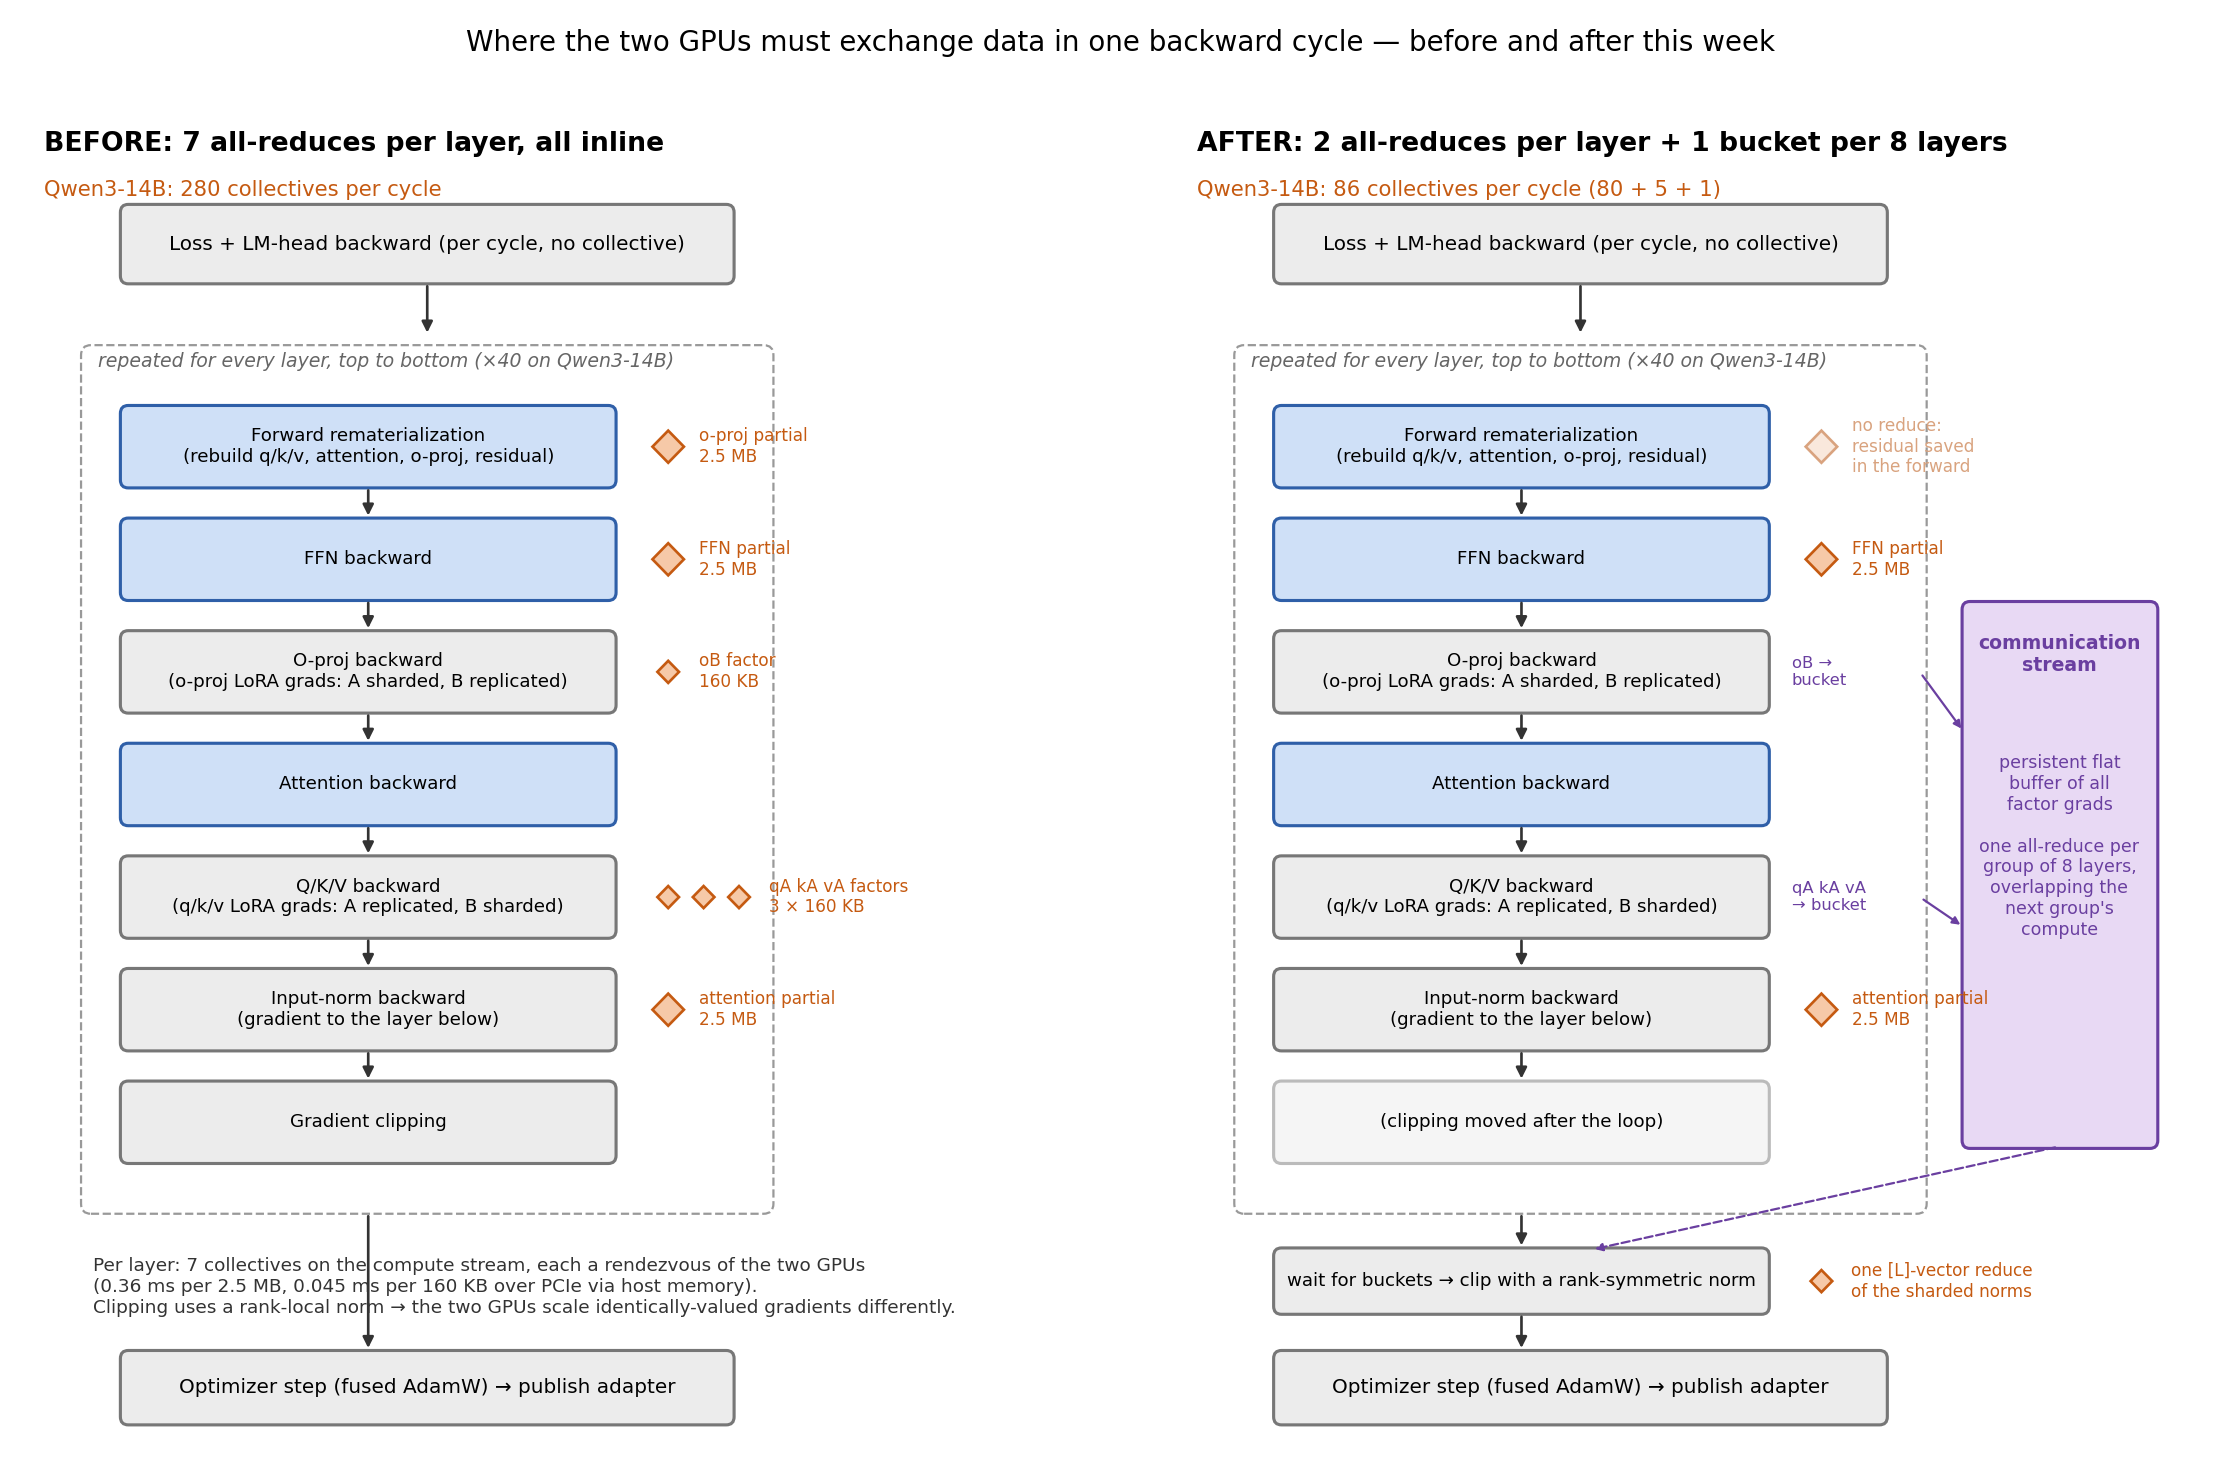
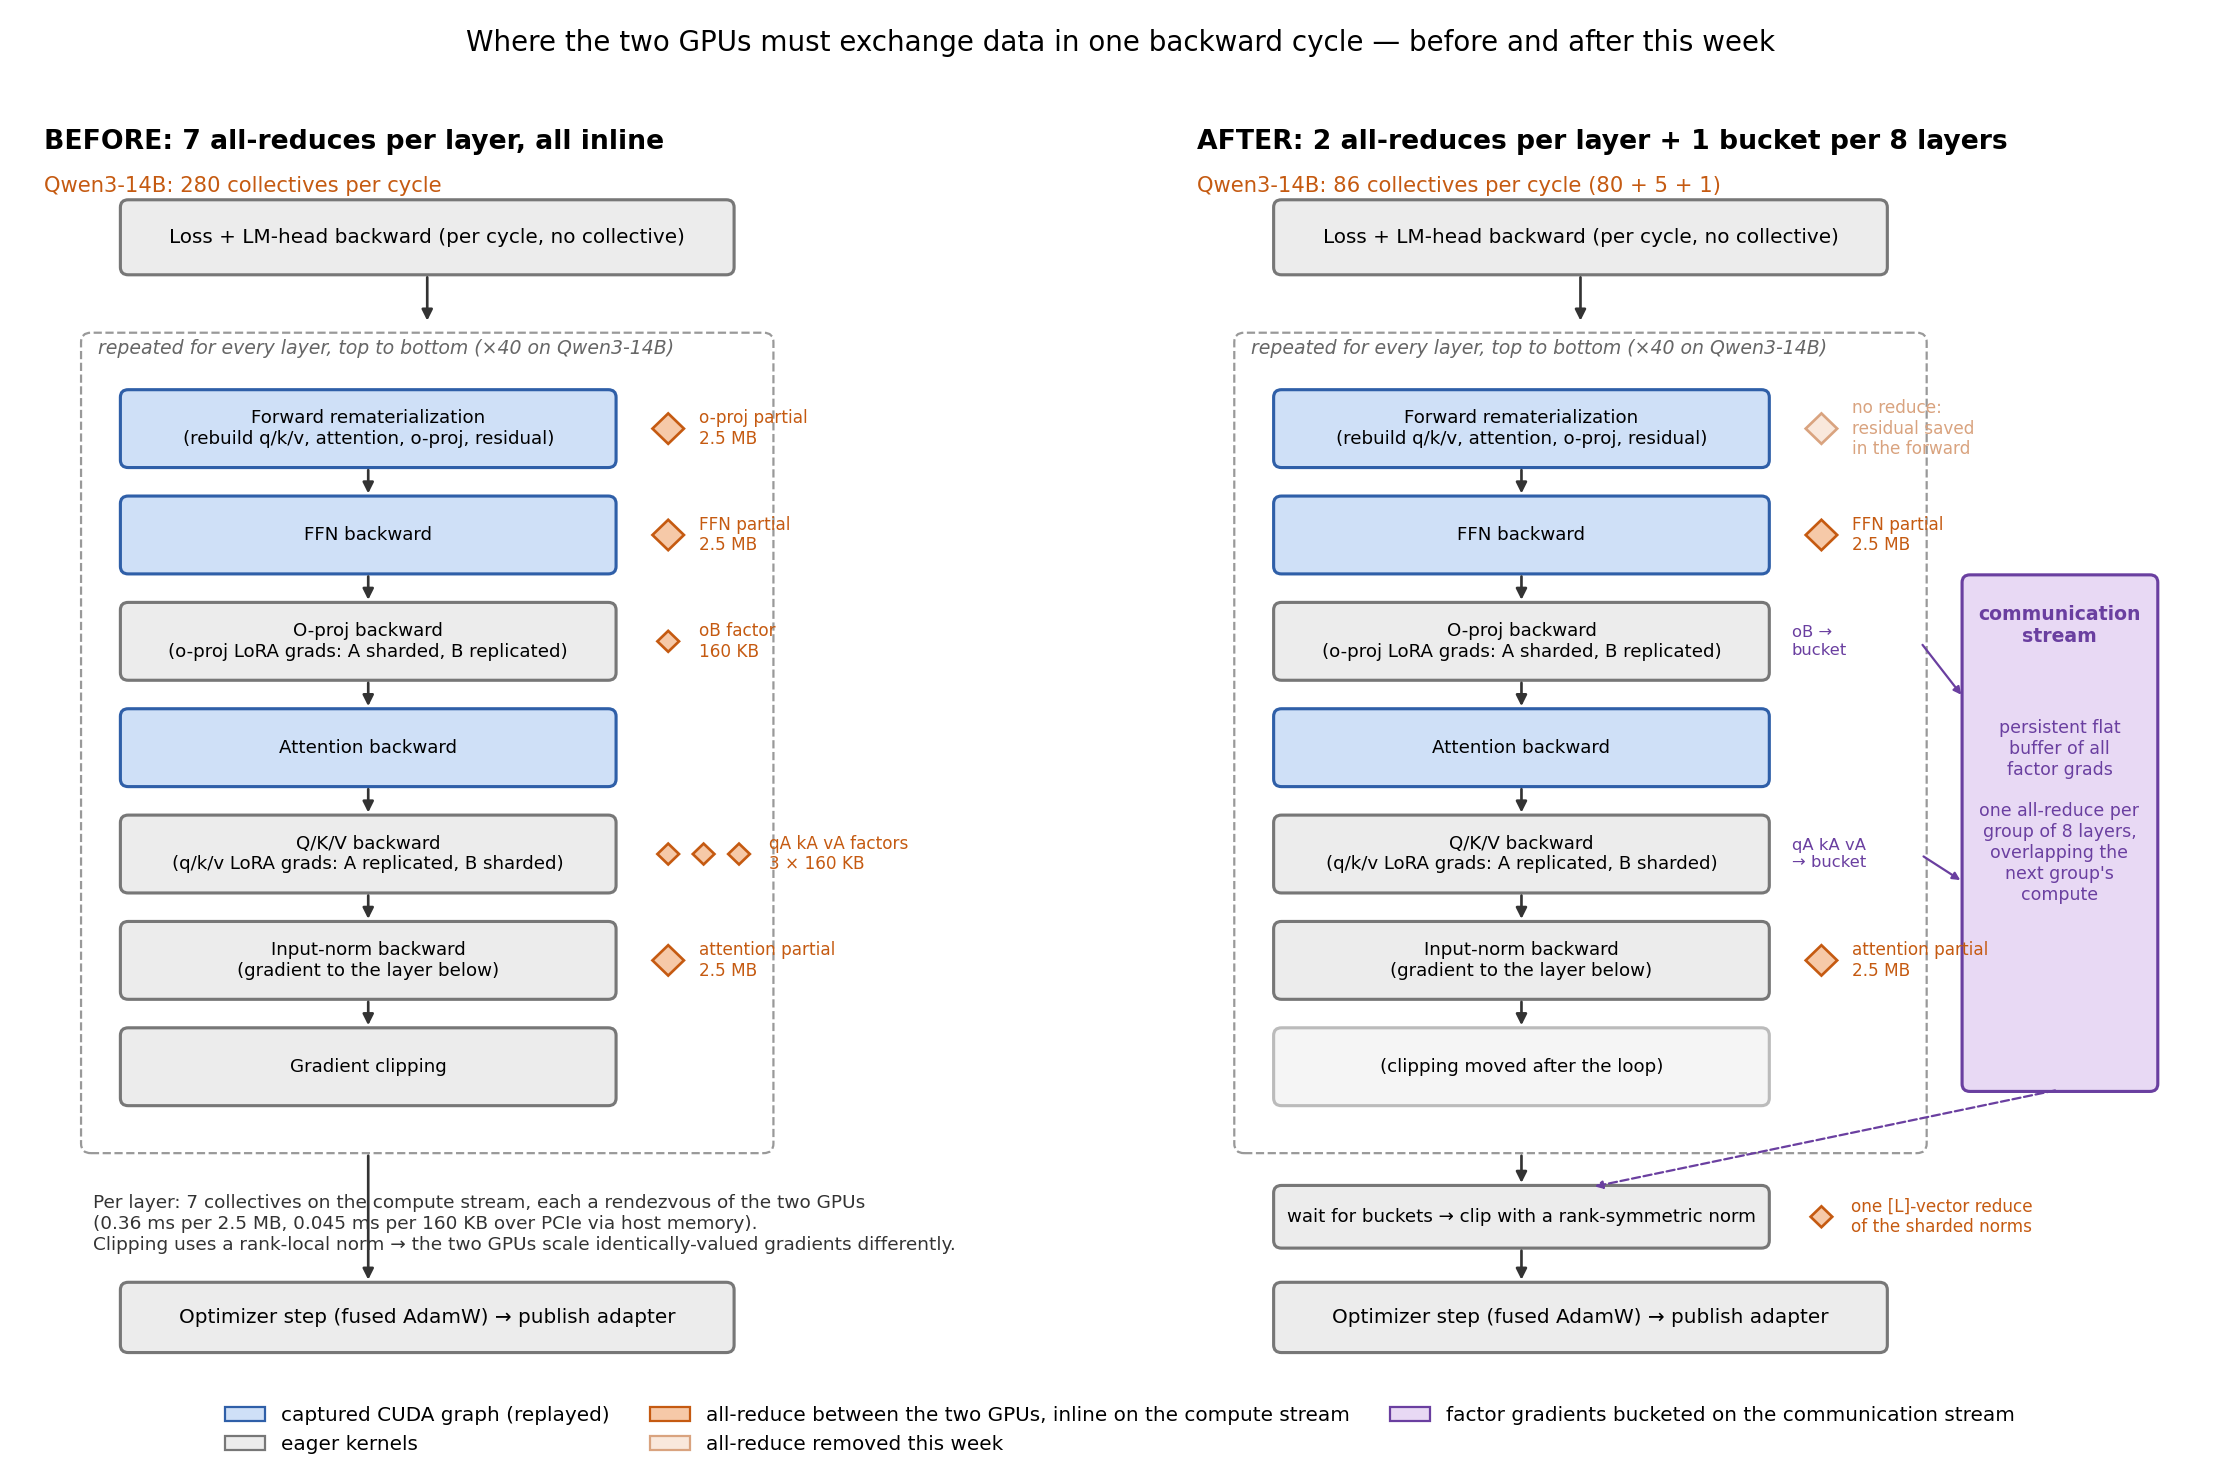
docs: weekly report — sections 2/3 merged (2.1 recompute+head, 2.2 transfer) on figure 2 with a colour legend; figure 3 removed; figure 4 beside its paragraph

diff --git a/weekly_report_sept_1.md b/weekly_report_sept_1.md
@@ -45,12 +45,15 @@ GPUs, including the fallback path when a batch overflows the padded attention bu
 4020 checks) and a trainer-level test that runs the real training loop for several steps
 and compares losses and adapter weights across graph, eager, and single-GPU (220 checks).
 
-## 2. What the backward actually costs, and what we removed
+## 2. Where the backward's time goes, and what we removed
+
+### 2.1 Recompute, activation saving, and the LM head
 
 **The pipeline and where the GPUs must talk.** Each backward cycle walks the layers from
 the top down. Under tensor parallelism every layer needs a few all-reduces because each
 GPU holds only half of the attention heads and half of the feed-forward block. The two
-diagrams below show the same cycle before and after this week's changes.
+diagrams below show the same cycle before and after this week's changes; the right-hand
+diagram is also the reference for the transfer changes in 2.2.
 
 ![Where the two GPUs exchange data in one backward cycle, before and after](figures/weekly_sept_1/fig2_allreduce_pipeline.png)
 
@@ -105,19 +108,19 @@ Qwen3-14B-shaped model, two GPUs, no inference running, graphs and all saves on:
 
 Over the week the uncontended Qwen3-14B cycle went from ~194 ms (eager, no saves) to
 ~121 ms: roughly 5 ms from graphs, 15 ms from the activation saves, 42 ms from the head,
-and a few ms from the transfer changes in the next section.
+and a few ms from the transfer changes in 2.2.
 
-## 3. GPU-to-GPU transfer: bucketing and a communication stream
+### 2.2 GPU-to-GPU transfer: bucketing and a communication stream
 
-**Before.** All 240 reductions per cycle were issued inline, on the same CUDA stream as
-the compute, at the point where each gradient was produced. 160 of them were the
-replicated LoRA-factor gradients, which nobody reads until the optimizer step at the end
-of the cycle. Each reduce is a rendezvous between the two GPUs, and the backward process
-was also started with the CUDA setting that pins every stream onto a single hardware queue
-(inherited from the original DeltaServe), so no overlap between communication and compute
-was possible even in principle.
-
-![Compute stream vs communication stream, before and after bucketing](figures/weekly_sept_1/fig3_bucketing_streams.png)
+**Before** (left-hand side of the diagram above). All 240 reductions per cycle were
+issued inline, on the same CUDA stream as the compute, at the point in the layer where
+each gradient was produced: the two residual-stream partials that the next operation needs
+immediately, and the four replicated LoRA-factor gradients that nobody reads until the
+optimizer step at the end of the cycle. Each reduce is a rendezvous between the two GPUs,
+so the compute stream stalled 7 times per layer, and the backward process was started
+with the CUDA setting that pins every stream onto a single hardware queue (inherited from
+the original DeltaServe), so no overlap between communication and compute was possible
+even in principle.
 
 There was also a correctness problem hiding in the same place: gradient clipping ran
 per layer on each GPU over the tensors that GPU held, replicated factors in full but only
@@ -125,12 +128,13 @@ its own half of the sharded ones. The two GPUs derived slightly different clip s
 applied them to gradients that are supposed to be identical, so their replicated adapter
 weights drifted apart whenever a layer's gradient norm exceeded the clip threshold.
 
-**After.** The factor gradients are copied into one persistent flat buffer as they are
-produced and reduced once per group of eight layers on a dedicated communication stream,
-overlapping the next group's compute; 240 collectives become 86 (80 residual reduces, 5
-buckets, 1 for clipping). Clipping runs after the bucketed reduce with a norm that sums
-the sharded halves across GPUs in one tiny collective, so both GPUs scale identically. The
-single-queue setting is gone.
+**After** (right-hand side). The two residual-stream reduces stay where they are, since
+the next operation depends on them. The four factor gradients are instead copied into one
+persistent flat buffer as they are produced and reduced once per group of eight layers on
+a dedicated communication stream, overlapping the next group's compute; 240 collectives
+become 86 (80 residual reduces, 5 buckets, 1 for clipping). Clipping moves after the
+bucketed reduce and uses a norm that sums the sharded halves across GPUs in one tiny
+collective, so both GPUs scale identically. The single-queue setting is gone.
 
 **Ordering correctness** lives in one helper: every submit waits for the producing
 compute, every consumer waits for the completion event, only persistent buffers are
@@ -142,7 +146,7 @@ single-GPU run. The measured time saving is small, about 2 ms per cycle, because
 residual reduces stay on the critical path; that is the floor for tensor parallelism on
 this hardware. The real gain is the correctness fix.
 
-## 4. Inference pre-empting finetuning-only steps
+## 3. Inference pre-empting finetuning-only steps
 
 **What it is.** When no inference request is waiting, the scheduler builds steps made only
 of finetuning samples. An inference request that arrives during such a step would
@@ -177,14 +181,25 @@ far ahead of the GPU, so a hook-time abort only saved the un-launched tail (the 
 bounds the launch-ahead to two layers), and, most importantly, most burst-start requests
 were slow for a different reason entirely.
 
-**The pause finding.** On the dense trace, the first request of each burst usually
+<table>
+<tr>
+<td width="52%" valign="top">
+
+<b>The pause finding.</b> On the dense trace, the first request of each burst usually
 arrived while the backward was running, not during an FT-only forward. Its prefill took
 80 to 200 ms instead of 40 ms because the "yield the GPU to prefill" grant was re-set right
 after the prefill was enqueued, not when it finished, so the backward resumed immediately
-and the two processes time-sliced against each other on the GPU. The runner now records a CUDA event
-behind the prefill and resumes the backward only when that event has completed.
+and the two processes time-sliced against each other on the GPU. The runner now records a
+CUDA event behind the prefill and resumes the backward only when that event has completed.
 
-![Yielding the GPU to a prefill: before vs after](figures/weekly_sept_1/fig4_preemption.png)
+</td>
+<td width="48%" valign="top">
+
+<img src="figures/weekly_sept_1/fig4_preemption.png" alt="Yielding the GPU to a prefill: before vs after" width="100%">
+
+</td>
+</tr>
+</table>
 
 **Result on the dense trace (Qwen3-14B, 8 bursts of 60 requests):**
 
@@ -194,7 +209,7 @@ behind the prefill and resumes the backward only when that event has completed.
 | co-serving, before | 99.2 % | 377 ms | 577 ms | 92 52 144 53 44 40 458 58 | 277 |
 | co-serving, after | 100 % | 91 ms | 150 ms | 55 60 67 61 61 60 59 64 | 262 |
 
-## 5. Validation
+## 4. Validation
 
 Both families now co-serve the loose, dense, and Nutanix traces with the full stack
 (inference-only satisfaction is 100 % on every trace):
@@ -210,7 +225,7 @@ stalls), and the Qwen3-0.6B single-GPU path, which needed a fix for models whose
 is tied to the embedding.
 
 
-## 6. Next
+## 5. Next
 
 The SLO estimator's coefficients are fitted with no backward running; with the pause now
 holding through the whole prefill, the contention pattern has changed. The next step is a
